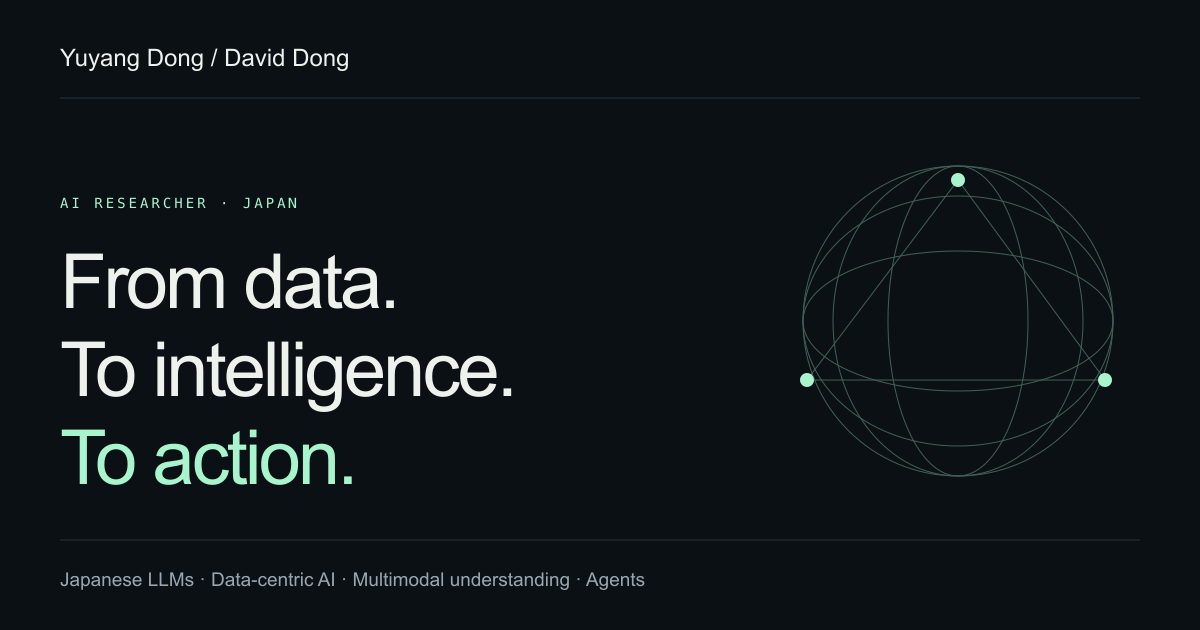
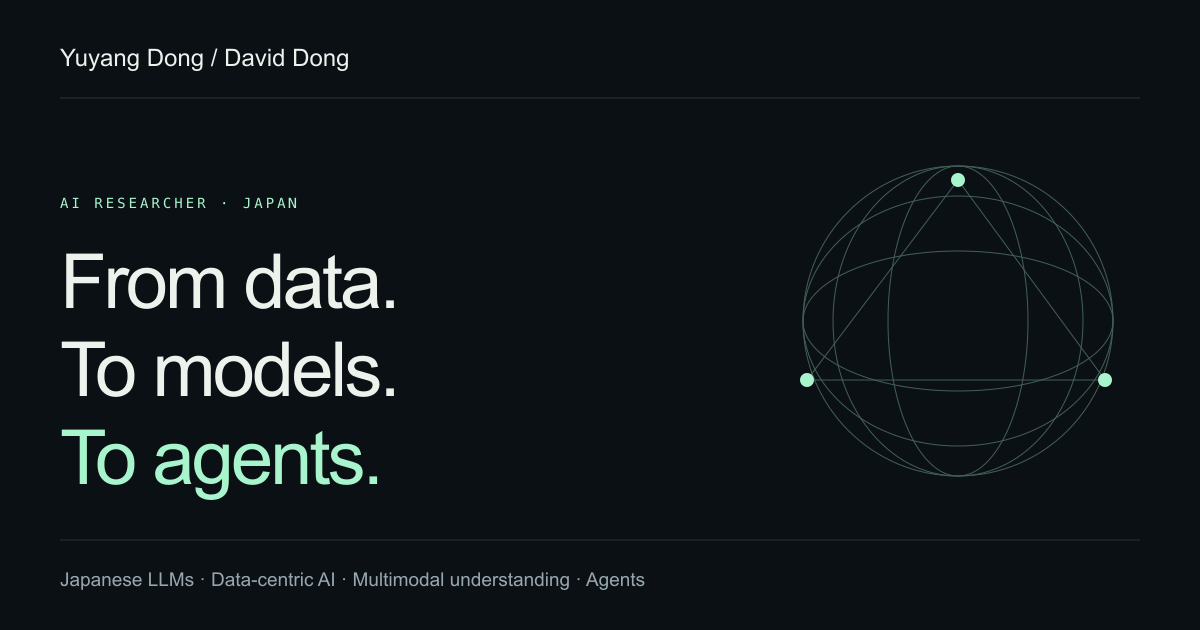
Make data-to-models-to-agents vision explicit on homepage

Changed region(s): [[0.1233, 0.5429, 0.4317, 0.6635], [0.1542, 0.6635, 0.3083, 0.8143]]

diff --git a/src/assets/style.css b/src/assets/style.css
@@ -9,3 +9,5 @@
 .research-card{min-width:0}
 @media(max-width:760px){.research-grid{grid-template-columns:minmax(0,1fr)}.project-facts{gap:28px}.project-facts strong{white-space:nowrap}}
 @media(max-width:380px){.hero h1{font-size:44px}.hero-actions{gap:18px}.hero-actions .button{gap:18px;font-size:11px}.hero-actions .text-link{font-size:11px;white-space:nowrap}.table-art span{width:25px;height:13px}.table-art b{margin-inline:15px}.table-art .table-clean span{width:23px;height:23px}.project-facts strong{font-size:26px}.visual-top{gap:8px}.visual-top .micro{font-size:6px}.closing>div{gap:16px}.closing .text-link{font-size:10px}.closing .button{font-size:11px;gap:15px}.loop-tabs button{font-size:11px}.loop-tabs button span{margin-right:4px}}
+
+.research-note .vision-detail{grid-column:2;font-size:14px;line-height:1.8;letter-spacing:0;color:var(--muted);margin-bottom:10px}
